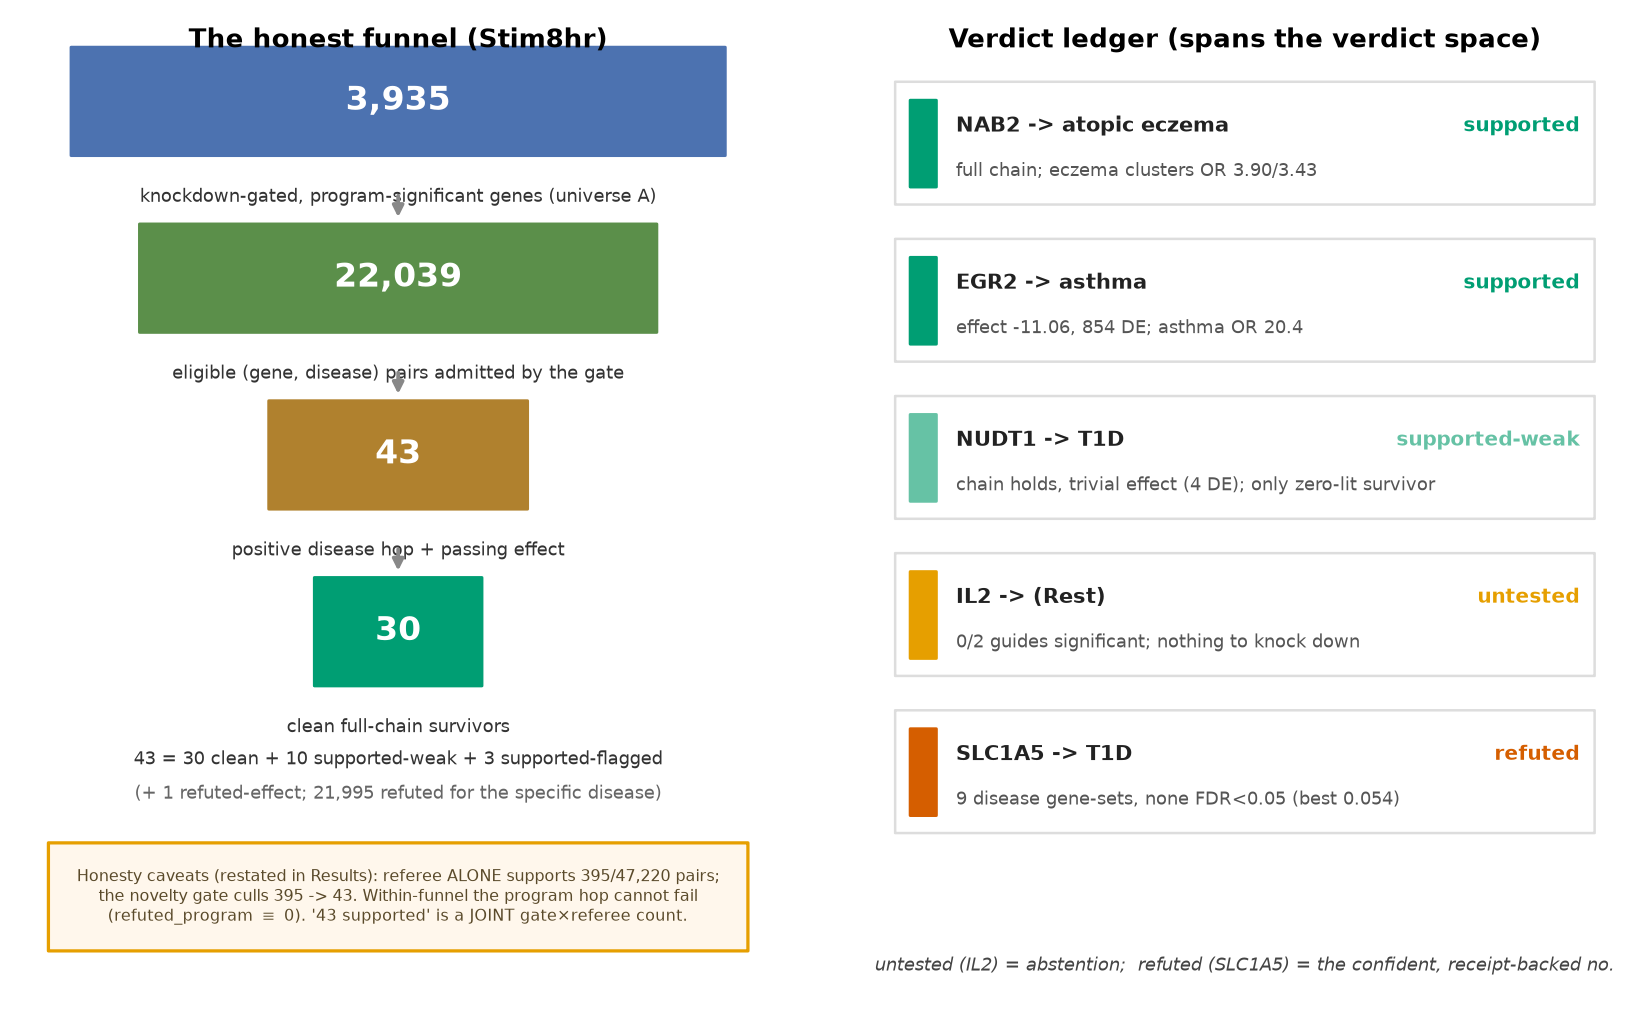
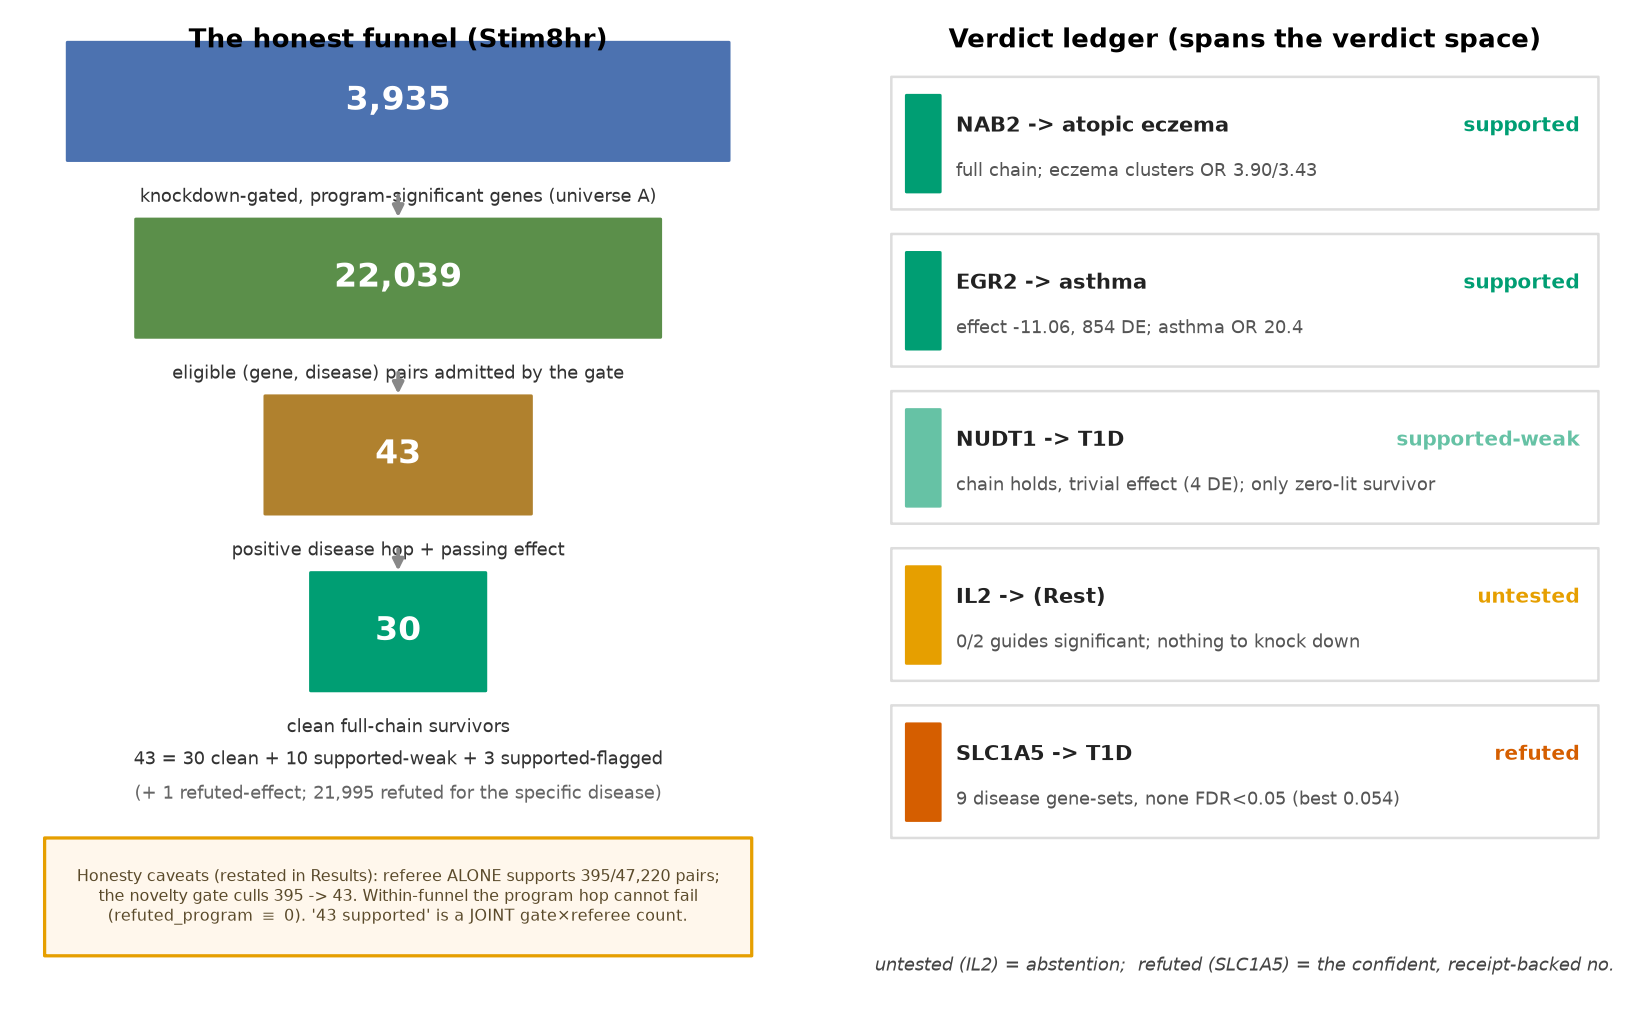
manuscript: polish — first-line indents, figure padding, acknowledgements, TODOs
- Paragraph first-line indent (\parindent 1.6em) with run-in bold headings kept
  flush (\noindent added to 21 bold-led paragraphs across methods/results/discussion).
  First-paragraph-after-heading stays flush (standard convention). Verified in the PDF.
- Add aesthetic padding between figure text and bounding boxes (FancyBboxPatch pad in
  make_figures.py); all four figures re-rendered. Scoped the Fig-4 STAT6 box heading
  FALSIFIED -> RULED OUT to match the text.
- Add Acknowledgements (Cerebral Valley hackathon; Marson lab dataset; Claude Science;
  Anthropic Claude Max + API credits) + a Data-and-code-availability section.
- Finish small TODOs: real byline for plausibility2026 (arXiv:2606.01042 = Yuan et al.);
  sync the stale "~1.9 kb"/"Figure 5" in the frozen markdown source to the corrected genomics.

Manuscript compiles at 32pp, 0 errors, 0 undefined citations, 0 bibtex warnings.

diff --git a/docs/manuscript/latex/sections/03_methods.tex b/docs/manuscript/latex/sections/03_methods.tex
@@ -1,6 +1,6 @@
 \subsection*{3.1 Materials}\label{materials}
 
-\textbf{Perturbation data.} All prioritization runs against the aggregated supplementary tables of a
+\noindent \textbf{Perturbation data.} All prioritization runs against the aggregated supplementary tables of a
 genome-scale CRISPRi Perturb-seq study (a 2025 preprint) in primary human CD4+ T cells \cite{zhu2025}:
 (T1) per-perturbation differential-expression statistics, including an on-target effect flag and a count
 of downstream differentially expressed genes; (T2) a Th1/Th2 polarization-signature enrichment per
@@ -10,7 +10,7 @@ significance call. We work at the 8-hour stimulation condition unless noted. No 
 are used; for the one confounder check that needs genome-wide differential expression, the study's
 deposited matrix is read lazily from public object storage (byte-range reads, no bulk download).
 
-\textbf{Disease and program vocabularies.} The program \textbf{B} is fixed to Th1/Th2 polarization, with two term
+\noindent \textbf{Disease and program vocabularies.} The program \textbf{B} is fixed to Th1/Th2 polarization, with two term
 arms: process terms (e.g.~``Th2 cells'', ``T helper 2'') used for the gene--program signal, and marker terms
 (GATA3, IL-4, IFN-$\gamma$, T-bet) additionally used for the program--disease signal, since disease literature
 legitimately cites markers. The disease set \textbf{C} comprises 12 immune diseases, each pinned to a MONDO
@@ -18,13 +18,13 @@ identifier \cite{mondo2022} and re-verified live against Open Targets search and
 verification is load-bearing: MONDO and EFO identifiers differ, and a wrong identifier makes Open Targets
 report ``no known association'' for every gene, spuriously inflating apparent novelty everywhere.
 
-\textbf{Literature and association sources.} Co-mention counts come from Europe PMC \cite{europepmc2015} \texttt{hitCount} queries (all
+\noindent \textbf{Literature and association sources.} Co-mention counts come from Europe PMC \cite{europepmc2015} \texttt{hitCount} queries (all
 terms quoted); curated gene$\rightarrow$disease association scores come from the Open Targets GraphQL API \cite{opentargets2023} --- the
 \emph{overall} target--disease association score (not a genetics-only subset), used as a known-link / novelty
 prior. This is distinct from the disease \emph{labels} on the enrichment modules (the disease hop, \S{}3.3), which
 the source study derives from genetic evidence.
 
-\textbf{Model cast.} Inside the workbench (Section 3.4) the author role is an Opus-class model (Claude Opus
+\noindent \textbf{Model cast.} Inside the workbench (Section 3.4) the author role is an Opus-class model (Claude Opus
 4.8); the independent reviewer role is a Sonnet-class model (Claude Sonnet 5), invoked at separate
 verification checkpoints; lightweight inline sampling is handled by a smaller model. All
 biological interpretation is confined to these models reading deterministic receipts; no model computes a
@@ -32,7 +32,7 @@ receipt.
 
 \subsection*{3.2 Candidate generation}\label{candidate-generation}
 
-\textbf{A disease-answer-free gene universe.} The candidate gene set \textbf{A} is defined from the perturbation
+\noindent \textbf{A disease-answer-free gene universe.} The candidate gene set \textbf{A} is defined from the perturbation
 data alone, before any disease information is consulted. A gene enters \textbf{A} if it clears the knockdown-QC
 gate ($\geq$1 guide with a significant knockdown call in T4), has a significant transcriptional effect (an
 on-target significance flag or a nonzero downstream-DE count in T1), and shows a significant Th1/Th2 shift
@@ -42,7 +42,7 @@ count forward as an effect-strength prior. \textbf{A} is disease-answer-free, no
 preselected on the same knockdown/effect/program evidence the referee re-reads at hops 0--2 (a consequence
 we make explicit in \S{}3.3). At the 8-hour condition, \textbf{A} contains 3,935 genes.
 
-\textbf{Five deterministic signals.} For each (gene A, disease C) pair we compute: \texttt{ab}, the Europe PMC
+\noindent \textbf{Five deterministic signals.} For each (gene A, disease C) pair we compute: \texttt{ab}, the Europe PMC
 co-mention count of A with the Th1/Th2 process terms; \texttt{bc}, the co-mention count of the program terms with
 C (constant per disease); \texttt{ac\_known}, the Open Targets \emph{overall} target--disease association score of A for
 C (zero when absent --- the novelty signal; the overall score, not a genetics-only subset); \texttt{ac\_lit}, the
@@ -50,7 +50,7 @@ direct A--C co-mention count (computed only for referee
 survivors, to bound API cost); and \texttt{effect}, the downstream-DE count from T1. Every signal is a
 deterministic lookup.
 
-\textbf{Gate and ranking objective.} Eligibility requires all of: \texttt{ab\ $\geq$\ ab\_gate} (a universe percentile,
+\noindent \textbf{Gate and ranking objective.} Eligibility requires all of: \texttt{ab\ $\geq$\ ab\_gate} (a universe percentile,
 default the median, which removes candidates that look novel only because the gene is understudied),
 \texttt{bc\ $\geq$\ 3}, and \texttt{ac\_known\ $\leq$\ 0.1} (no established curated association). Raw \texttt{ac\_lit} is deliberately \emph{not} in the
 gate --- hard-gating on zero co-mention would exclude every well-studied strong regulator and reward
@@ -72,7 +72,7 @@ design of this objective is the only human judgment in an otherwise mechanical p
 survivor's verdict does not depend on the weights --- so the choice of weights affects which candidate is
 foregrounded, not whether it is supported (we examine rank stability under alternative weights in Section 4).
 
-\textbf{Order of operations.} The sweep builds \textbf{A}, prefetches the per-disease \texttt{bc}/\texttt{ac\_known} (12 calls
+\noindent \textbf{Order of operations.} The sweep builds \textbf{A}, prefetches the per-disease \texttt{bc}/\texttt{ac\_known} (12 calls
 each) and per-gene \texttt{ab}, applies the gate, then runs the deterministic referee \emph{first} (it is local and
 free) to keep only chain-held survivors (receipt-complete at every hop), and only then computes \texttt{ac\_lit}
 and the final score for those survivors. At the 8-hour condition this funnels 3,935 genes $\rightarrow$ 22,039 eligible
@@ -145,7 +145,7 @@ Generation, evidence integration, and provenance assembly were run inside Claude
 agentic scientific workbench, in which an author model writes and runs analysis code and an independent
 reviewer model verifies the result at separate checkpoints (Section 3.1).
 
-\textbf{Operating an instrument that has no API.} Claude Science exposes no programmatic task-submission
+\noindent \textbf{Operating an instrument that has no API.} Claude Science exposes no programmatic task-submission
 interface: analyses are ordinarily driven by hand in its web interface, which makes each run a one-off,
 hand-paced event rather than a reproducible procedure --- human clicking becomes the bottleneck at exactly
 the moment when keeping pace with the twin floods of data and literature is the whole point. To make the
@@ -166,7 +166,7 @@ nonetheless what converts a click-once web session into a re-runnable, audited p
 platform exposes no programmatic interface --- an under-appreciated route to replicable-in-principle
 (UI-dependent) \emph{agentic} science.
 
-\textbf{Provenance and self-audit.} Every run is captured in the workbench's own audit store, from which we
+\noindent \textbf{Provenance and self-audit.} Every run is captured in the workbench's own audit store, from which we
 draw model identities, per-step costs, and the reviewer's checks. The reviewer verifies each reported
 number against the underlying artifacts and enforces calibrated language on the manuscript-facing output ---
 the receipt chain and the verdicts a reader sees; in this work it flagged overstated words (``validated'',
@@ -180,7 +180,7 @@ manuscript-facing verdicts cite the post-review receipt rather than the raw gene
 the independence precisely, too: it is \emph{role, model, and checkpoint} independence --- a distinct reviewer
 model at distinct verification points --- within a single model family, not independence across vendors.
 
-\textbf{Three claims about liveness, kept distinct.} We separate what ran live from what was replayed, because
+\noindent \textbf{Three claims about liveness, kept distinct.} We separate what ran live from what was replayed, because
 conflating them would overstate the result. (i) \emph{Full-scale reproduction}: the generation pipeline ran
 unchanged over the entire 3,935-gene universe inside the workbench, but against a workbench-local cache of
 previously captured literature/association responses, under a guard that raises on any live network call

diff --git a/docs/manuscript/latex/main.tex b/docs/manuscript/latex/main.tex
@@ -14,7 +14,7 @@
 \renewcommand{\familydefault}{\sfdefault}
 \usepackage[margin=1in]{geometry}
 \usepackage{setspace}\onehalfspacing
-\setlength{\parindent}{0pt}\setlength{\parskip}{4pt}
+\setlength{\parindent}{1.6em}\setlength{\parskip}{3pt}
 \tolerance=400\emergencystretch=3pt
 
 % --- colours + section headers (LightsOut aesthetic; starred = unnumbered so the manual
@@ -107,6 +107,24 @@ CRISPRi screens; T-cell polarization; agentic language models; falsification; ab
 \section*{3. Materials and Methods}\input{sections/03_methods}
 \section*{4. Results}\input{sections/04_results}
 \section*{5. Discussion}\input{sections/05_discussion}
+
+\section*{Acknowledgements}
+This work began at the \textbf{\emph{Built with Claude: Life Sciences}} hackathon organized by
+\textbf{Cerebral Valley}, whose team we thank for convening the event. The entire study is a re-analysis of a
+public resource: we are grateful to the authors of the genome-scale CD4$^{+}$ T-cell Perturb-seq dataset ---
+Zhu, Dann, and colleagues in the \textbf{Marson laboratory} --- for depositing their data and aggregated
+supplementary tables openly \cite{zhu2025}, without which none of this would have been possible. The
+generation, evidence integration, and self-audit were carried out inside \textbf{Claude Science}, Anthropic's
+agentic scientific workbench, and the reasoning and language models throughout are Anthropic's Claude family
+(Section 3.1). We gratefully acknowledge \textbf{Anthropic} for a Claude Max account and the API credits that
+made the agentic experiments and their cross-model verification feasible. Responsibility for all claims,
+and for the calibrated language the paper argues for, rests with the author.
+
+\section*{Data and code availability}
+The Perturb-seq resource re-analysed here is public \cite{zhu2025}. All prioritization runs against its
+aggregated supplementary tables; the one genome-wide confounder check reads the study's deposited
+differential-expression matrix by byte-range from public object storage. The Wayfinder implementation,
+analysis scripts, and figure-generation code are released open-source (MIT).
 
 \bibliography{../../../references/references}
 

diff --git a/docs/manuscript/latex/sections/05_discussion.tex b/docs/manuscript/latex/sections/05_discussion.tex
@@ -65,14 +65,14 @@ bench at the one experiment most worth running.
 
 We inherit the LBD tradition of a candid limitations section, and there is a great deal to be candid about.
 
-\textbf{One flagship, worked to depth; the rest nominated.} The full falsification apparatus --- the STAT6
+\noindent \textbf{One flagship, worked to depth; the rest nominated.} The full falsification apparatus --- the STAT6
 \emph{cis}-test, the independent cross-model replication, and the three-way 12q13 decomposition --- was
 applied to a single survivor (NAB2). The other 29 clean survivors carry their per-hop receipts but were not
 individually adjudicated to that depth, so the confounder-falsification workflow is \emph{demonstrated}, not
 \emph{evaluated at scale}; systematically applying it across survivors (and the held-out and external
 benchmarks of \S5.3b) is the work that would turn demonstration into measured performance.
 
-\textbf{The verdicts are nominations, not causal claims.} Every ``supported'' verdict means the chain held with a
+\noindent \textbf{The verdicts are nominations, not causal claims.} Every ``supported'' verdict means the chain held with a
 receipt at each hop, not that the biology is established. This is sharpest at the disease hop, which is an
 \emph{association} receipt: the module--disease labels derive from genetic (GWAS-based) evidence with no
 colocalization or linkage-disequilibrium control, so NAB2's atopic-eczema label could in principle be
@@ -81,7 +81,7 @@ addresses the perturbation signal; it does not settle the provenance of the GWAS
 as the flagship nomination's key open question rather than treat as discharged (\S{}4.4b), and which only
 variant-level colocalization against the 12q13 atopic-dermatitis GWAS can resolve.
 
-\textbf{The disease hop's stringency is substrate-inherited, not the referee's own discrimination.} Our
+\noindent \textbf{The disease hop's stringency is substrate-inherited, not the referee's own discrimination.} Our
 label-shuffle control (\S{}4.1b) is the most important honesty check in the paper, and it returned a result we
 report straight: the disease hop supports fewer than 1\% of arbitrary gene$\times$disease pairs, but so does a
 random relabeling of the enrichment data --- the near-total refutation rate is a property of the enrichment
@@ -90,23 +90,23 @@ referee's confident-\emph{no} edge lies in the knockdown-QC gate and the effect/
 are its own computations; the disease hop's contribution is a stringent, label-dependent nomination filter,
 and we claim no more for it.
 
-\textbf{The funnel numbers are conditioned, not free-standing.} Within the pre-gated universe the program hop is
+\noindent \textbf{The funnel numbers are conditioned, not free-standing.} Within the pre-gated universe the program hop is
 a tautology (\texttt{refuted\_program\ $\equiv$\ 0}), so it discriminates in an individual receipt, not as a funnel filter;
 and ``43 supported'' is a joint product of the literature-novelty gate and the referee (the referee alone
 supports 395 of 47,220 pairs). We restate these in Results rather than burying them here.
 
-\textbf{The substrate is bounded, and singular.} The prioritization is retrospective against one Perturb-seq
+\noindent \textbf{The substrate is bounded, and singular.} The prioritization is retrospective against one Perturb-seq
 resource, one program (Th1/Th2), one cell type, and one set of aggregated tables; we ran no new wet-lab
 experiment. The approach is only as good as the held substrate for a given claim, and it stays silent ---
 returning \emph{untested} --- where the substrate cannot speak, which is a feature, but also a boundary on scope.
 
-\textbf{The determinism boundary, and where model judgment enters.} Every data receipt is deterministic code; the
+\noindent \textbf{The determinism boundary, and where model judgment enters.} Every data receipt is deterministic code; the
 language model interprets receipts and never computes one. But the objective's weights are a human design
 choice (we showed the headline is robust to them, \S{}4.1b), and the model's interpretive and provenance-writing
 roles are judgment, not computation --- so the calibrated-language discipline, and the independent critic that
 enforces it, are load-bearing rather than cosmetic.
 
-\textbf{The self-audit is within-family, and the automation depends on an unstable surface.} The workbench's
+\noindent \textbf{The self-audit is within-family, and the automation depends on an unstable surface.} The workbench's
 reviewer is an independent \emph{role, model, and checkpoint}, but within a single model family; cross-family
 independence is supplied externally (\S{}4.6), not natively. And the headless driver depends on the workbench's
 web front-end, for which there is no stable public contract --- a replicability bridge over an API-less

diff --git a/docs/manuscript/latex/figures/make_figures.py b/docs/manuscript/latex/figures/make_figures.py
@@ -65,9 +65,11 @@ def save(fig, stem):
 
 
 def box(ax, x, y, w, h, text, fc="white", ec=C_INK, lw=1.3, fs=8.5,
-        tc=C_INK, weight="normal", rounded=0.02, ha="center", va="center"):
-    p = FancyBboxPatch((x, y), w, h, boxstyle=f"round,pad=0.0,rounding_size={rounded}",
-                       linewidth=lw, edgecolor=ec, facecolor=fc, zorder=2)
+        tc=C_INK, weight="normal", rounded=0.02, ha="center", va="center", pad=0.5):
+    # `pad` grows the drawn box outward around its centered text -> visible breathing
+    # room between text and the border. Kept small so the growth clears neighbours/arrows.
+    p = FancyBboxPatch((x, y), w, h, boxstyle=f"round,pad={pad},rounding_size={rounded}",
+                       linewidth=lw, edgecolor=ec, facecolor=fc, zorder=2, mutation_aspect=1)
     ax.add_patch(p)
     if text:
         ax.text(x + w / 2 if ha == "center" else x + 0.6, y + h / 2, text,
@@ -241,7 +243,7 @@ def fig3():
     arrow(ax, hop3x + w / 2, 62, hop3x + w / 2, 46.5, color=C_ASSOC, lw=1.4, ls=(0, (3, 2)))
 
     box(ax, 3, 29, 46, 17, "", fc="#EEF4F1", ec=C_SUPPORTED, lw=1.4, rounded=0.03)
-    ax.text(26, 44.4, "STAT6 cis-effect: FALSIFIED (S4.4)", ha="center", fontsize=8.0, weight="bold", color="#1B6B52")
+    ax.text(26, 44.4, "STAT6 cis-effect: RULED OUT (S4.4)", ha="center", fontsize=8.0, weight="bold", color="#1B6B52")
     ax.text(26, 37.0,
             "Under NAB2-KD (authors' genome-wide DE):\n"
             "STAT6 log$_2$FC $+0.087$, adj. $p$ 0.788 $\\rightarrow$ UNMOVED\n"

diff --git a/docs/manuscript/latex/sections/04_results.tex b/docs/manuscript/latex/sections/04_results.tex
@@ -92,13 +92,13 @@ receipt --- including the abstention (IL2, \emph{untested}) and the confident, r
 To move ``the referee discriminates'' from assertion to a small measured result, we ran three checks as a
 bounded kernel analysis inside the workbench (\S{}3.4); Figure 3 collects these diagnostics.
 
-\textbf{Control 1 --- the QC gate does its job.} We applied the referee to every gene whose knockdown \emph{fails} QC
+\noindent \textbf{Control 1 --- the QC gate does its job.} We applied the referee to every gene whose knockdown \emph{fails} QC
 at the 8-hour condition (no guide reaching a significant knockdown call in T4): \textbf{2,430} genes. All 2,430
 returned \emph{untested} at hop 0 --- a \textbf{100\%} rate, with no leakage into a spurious \emph{refuted} or \emph{supported}
 verdict. The gate converts failed experiments into an honest ``cannot say,'' exactly as designed, and does so
 without exception across the full failed-knockdown set.
 
-\textbf{Control 2 --- the disease hop's stringency is substrate-inherited, and its pass count is label-dependent.}
+\noindent \textbf{Control 2 --- the disease hop's stringency is substrate-inherited, and its pass count is label-dependent.}
 Across the referee's native pair space of all \textbf{47,220} (gene $\in$ A) $\times$ (disease $\in$ C) combinations at the
 8-hour condition, the disease hop supports only \textbf{406 (0.86\%)} and refutes the remaining \textbf{99.14\%}. That
 stringency, however, is not the referee's own doing: under \textbf{2,000} permutations of the disease labels
@@ -119,7 +119,7 @@ stringency is substrate-inherited} --- not a demonstration of the referee's own 
 control speaks to the disease hop; it does not re-open the program-hop tautology of \S{}3.3, which is a
 construction property, not a chance one.)
 
-\textbf{Rank stability under alternative objective weights.} The ranking objective (\S{}3.2) has three free weights
+\noindent \textbf{Rank stability under alternative objective weights.} The ranking objective (\S{}3.2) has three free weights
 ($\beta$ on effect, \emph{w} on direct co-mention, \emph{w\textsubscript{2}} on curated association; default $\beta$ = 1, \emph{w} = 1, \emph{w\textsubscript{2}} = 3). The
 weights set \emph{priority} among eligible survivors, not the supported/refuted verdict, which is
 weight-independent by construction --- but a headline example that is rank-4 only at one weight setting would

diff --git a/docs/manuscript/sections/04_results.md b/docs/manuscript/sections/04_results.md
@@ -160,7 +160,7 @@ the literature — and the same audit surfaced the confounder we take up next.
 
 ## 4.4 Falsifying the hardest confounder: the STAT6 *cis*-effect
 
-NAB2 sits ~1.9 kb from *STAT6*, the master type-2/atopic regulator, so the sharpest artifactual explanation
+NAB2 and *STAT6* (the master type-2/atopic regulator) are convergent tail-to-tail neighbours (3' ends overlap; promoters ~43 kb apart), so the sharpest artifactual explanation
 of NAB2's *perturbation* signal is a CRISPRi *cis*-effect: a guide targeting NAB2 could inadvertently
 repress the adjacent STAT6, and the observed Th2/eczema signal could be STAT6's, not NAB2's. We test this
 directly against the study authors' own deposited genome-wide differential-expression matrix (the 16.8 GB
@@ -199,7 +199,7 @@ it did not appear — nothing was cherry-picked — and independent re-querying 
 queries against the live APIs returned identical counts. *Cross-family independence* is kept external by
 design (§4.6).
 
-The self-audit is the part that mirrors the paper's own thesis (Figure 5). The author model (an Opus-class
+The self-audit is the part that mirrors the paper's own thesis. The author model (an Opus-class
 model) assembled the end-to-end receipt chain; an independent reviewer model (a Sonnet-class model),
 invoked at separate checkpoints, verified every reported number against the underlying artifacts and
 enforced calibrated language on the manuscript-facing output. It produced four verification checks: two